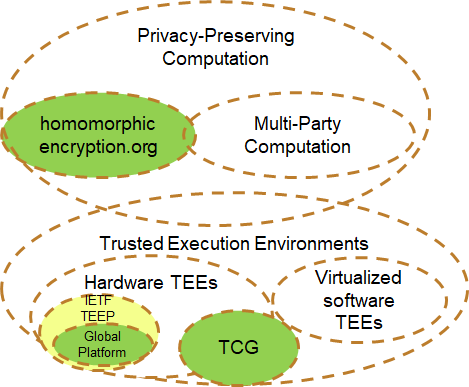
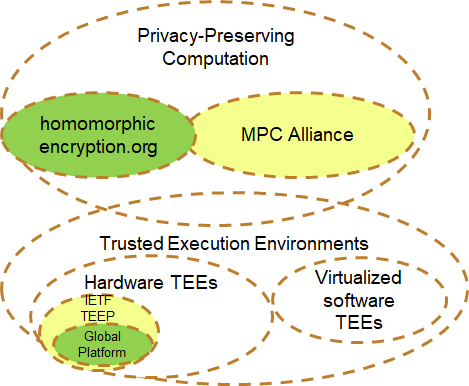
Update scoping per TAC meeting and email discussion (#12)
This merge is effective per the vote at the face to face meeting at RSA. There were no abstentions or objections.

* Fix editorial issues
* Fix grammatical errors and typos
* Make broken links work
* Add link to the list of ASI-approved licenses the text refers to
* Draft of TAC Scoping Report
* Updated per CCC meeting and mailing list discussion
* Update related orgs picture
* Address Simon's feedback
* Add CC definition being voted on, and FAQ answer
* Remove additional FAQ proposal due to apparent lack of consensus

diff --git a/scoping.md b/scoping.md
@@ -1,5 +1,25 @@
 # TAC Scoping Discussion
 
+## Executive Summary
+
+* The TAC recommends that the scope of the consortium be to
+  "promote the widespread use of hardware-based trusted execution
+  environments".
+
+* The TAC recommends that the definition of the term Confidential
+  Computing be: "Confidential Computing is the protection of data
+  in use by performing computation in a hardware-based Trusted
+  Execution Environment."
+
+* For both the scope of the CCC, and the definition of confidential
+  computing, the TAC recommends avoiding using the following terms
+  in ways that imply constraints, as being technically problematic:
+  "cloud", "main processor", and "encrypted"/"encryption".
+
+* Similarly, the TAC recommends against any language implying that
+  "protecting data in use" is synonymous with "confidential computing",
+  as the latter is only a subset of technologies for the former.
+
 ## 1. Introduction
 
 This document discusses two related, but different, questions:
@@ -15,15 +35,18 @@ This document discusses two related, but different, questions:
 The board needs to answer each of the above questions, keeping in mind that:
 
 * If a narrow answer is chosen, the focus stays on TEEs, and messaging 
-  on terminology might compete with other bodies in the industry.
+  on terminology might compete with other bodies in the industry that
+  also deal with protecting data in use.
 
 * If a broad answer is chosen, more discussion happens inside the CCC and the
-  CCC has the opportunity to have more unified messaging across the industry.
+  CCC has the opportunity to have more unified messaging across the industry
+  regarding protecting data in use.
 
 ## 2. Related Terminology
 
-The TAC conducted a survey of various related terms in the industry and
-composed the following Venn diagram:
+The TAC conducted a survey of various terms in the industry related to
+protecting data in use, and
+composed the following Venn diagram of technologies:
 
 ![Figure 1: Related Terminology](related-terminology.png)
 
@@ -31,7 +54,8 @@ Definitions of the various terms in the diagrams can be found in
 [Appendix A](#markdown-header-appendix-a-related-terminology).
 
 The solid blue lines indicate that the area is clearly already in scope
-for CCC discussion and projects. The dotted blue lines indicate uncertainty
+for CCC discussion and projects. The dotted blue lines indicate initial
+uncertainty
 as to whether they would (or should) fall into any intended definition
 of "confidential computing" and/or scope of the CCC.
 
@@ -47,6 +71,15 @@ as depicted in the following diagram:
 
 ![Figure 2: Related Organizations](related-organizations.png)
 
+In addition to those shown in the diagram, ISO/IEC JTC1/SC27 is now
+doing work ([N 20273](https://standardsdevelopment.bsigroup.com/projects/9020-03692)) 
+on multiparty computation and may expand to other areas, and the ITU has 
+published the
+[UN Handbook on Privacy-Preserving Computation Techniques](http://publications.officialstatistics.org/handbooks/privacy-preserving-techniques-handbook/UN%20Handbook%20for%20Privacy-Preserving%20Techniques.pdf)
+that covers the entire space of the diagram, even though it has
+"privacy-preserving computation" in the title.  While the ISO
+work is based on member states, the ITU work has a multistakeholder model.
+
 Based on the CCC scoping, various relationships (e.g., liaisons) might
 be appropriate.  (None of the others are legal entities hosting open
 source projects, but all of them publish specifications.)
@@ -57,13 +90,18 @@ The TAC concluded that each scoping question can be broken down further
 into five roughly orthogonal axes, each with a spectrum of narrow-to-broad
 options:
 
-1. Hardware/software only or also algorithmic (mathematical)? The TAC so 
-   far has no consensus view on this question, as opinions were split.
+1. Hardware/software only or also algorithmic (mathematical)? The TAC
+   has rough consensus to focus on promoting the hardware/software end,
+   which would exclude purely algorithmic technologies
+   such as homomorphic encryption and multiparty computation.
 
 2. Hardware-based (+firmware?) required or also software-only? The TAC 
-   certainly agrees that hardware-backed solutions are already in scope,
-   but does not yet have consensus on whether software-only should be
-   included or not.
+   has consensus that only hardware-rooted technologies can provide
+   the desired level of security, in particular for attestation.
+   Software only projects can be considered if they demonstrably
+   "promote" the use of hardware-backed solutions.  (For example,
+   a development-time-only emulation technology meant to speed development
+   of hardware-backed solutions.)
 
 3. Generalized (fully programmable) only, or also configurable
    (semi-programmable) and even specialized (fixed-purpose, non-programmable)
@@ -111,10 +149,9 @@ The TAC observed the following issues with the above definition:
 
 2. The term "encryption" is problematic since some TEEs of interest
    may have other forms of protecting data in use, encryption is just
-   one example mechanism.
-
-Furthermore, the text about TEEs implies a narrow answer to axis 1,
-which may or may not be desirable.
+   one example mechanism.  That is, encryption is a specific mechanism
+   rather than a property we are seeking.  You can provide confidentiality
+   by access control (for example) and not actually require encryption.
 
 * **[CCC press release](https://www.linuxfoundation.org/uncategorized/2019/10/confidential-computing-consortium-establishes-formation-with-founding-members-and-open-governance-structure/)**: Established in 2019, the Confidential
   Computing Consortium brings together hardware vendors, cloud providers,
@@ -127,11 +164,14 @@ which may or may not be desirable.
   without exposing it to the rest of the system**, reducing exposure
   to sensitive data and providing greater control and transparency for users.
 
-The use of "encrypted" is again seen as problematic.  In addition,
-the text is at best ambiguous about the scope, as the text about
-tools is constrained to "TEE" development, but the aims are broader,
-applying to protecting "data in use", where all of Figure 1 would
-claim to be about protecting data in use.
+The TAC observed the following issues with the above text:
+
+1. The use of "encrypted" is again seen as problematic.
+
+2. The text is ambiguous about the scope, as the text about
+   tools is constrained to "TEE" development, but the aims are broader,
+   applying to protecting "data in use", where all of Figure 1 would
+   claim to be about protecting data in use.
 
 * **[Mark Russinovich blog](https://azure.microsoft.com/en-us/blog/introducing-azure-confidential-computing/)**: Put simply, confidential computing 
   offers a protection that to date has been missing from public clouds, 
@@ -160,18 +200,39 @@ to be limited to TEEs.)
   data**. This concept is especially suitable for public clouds. 
 
 The use of "encrypted" is again seen as problematic.  However, the rest of
-the definition is clearly broadly scoped to protecting data in use (which
-may or may not be desired), and the article goes on to discuss the CCC
+the definition is clearly broadly scoped to protecting data in use (not
+phrased to be limited to TEEs), and the article goes on to discuss the CCC
 after the above definition.
 
-* **John Haxby**: Software solutions to enable the widespread use of hardware
-  trusted execution environments.
+* **[CCC FAQ definition](https://confidentialcomputing.io/)**:
+  Confidential computing focuses on **securing data in use**. Current approaches
+  to securing data often address data at rest (storage) and in transit
+  (network) but **encrypting** data in use is possibly the most challenging step
+  to providing a fully **encrypted** lifecycle for sensitive data. Confidential
+  computing will enable **encrypted** data to be processed in memory without
+  exposing it to the rest of the system and reduce exposure for sensitive
+  data and provide greater control and transparency for users.
 
-* **Brandon Baker**: Standards-based solutions to enable the widespread use 
-  of trusted execution environments rooted in hardware.
+The use of "encrypted" is problematic.  The paragraph can also be read as
+implying that confidential computing is the only technology in the space of
+protecting data in use, which also may be problematic.
 
-The above two definitions are narrowly scoped to only hardware-based TEEs,
-which may or may not be desired.
+The TAC iterated on several proposals for wording around the scope of
+what projects the TAC would recommend as being in scope of the CCC.
+The following wording obtained rough consensus:
+
+* "promote the widespread use of hardware-based trusted execution environments".
+
+This proposal puts the focus on only hardware-based TEEs, while providing
+some leeway with the use of "promote" to allow for non-hardware based
+projects that demonstrably promote the use of hardware-based TEEs.
+
+Similarly, the TAC iterated on several proposals for wording around
+the definition of the term "confidential computing".  The following
+wording obtained rough consensus:
+
+* "Confidential Computing is the protection of data in use by performing
+  computation in a hardware-based Trusted Execution Environment."
 
 ## Appendix A. Related Terminology
 
